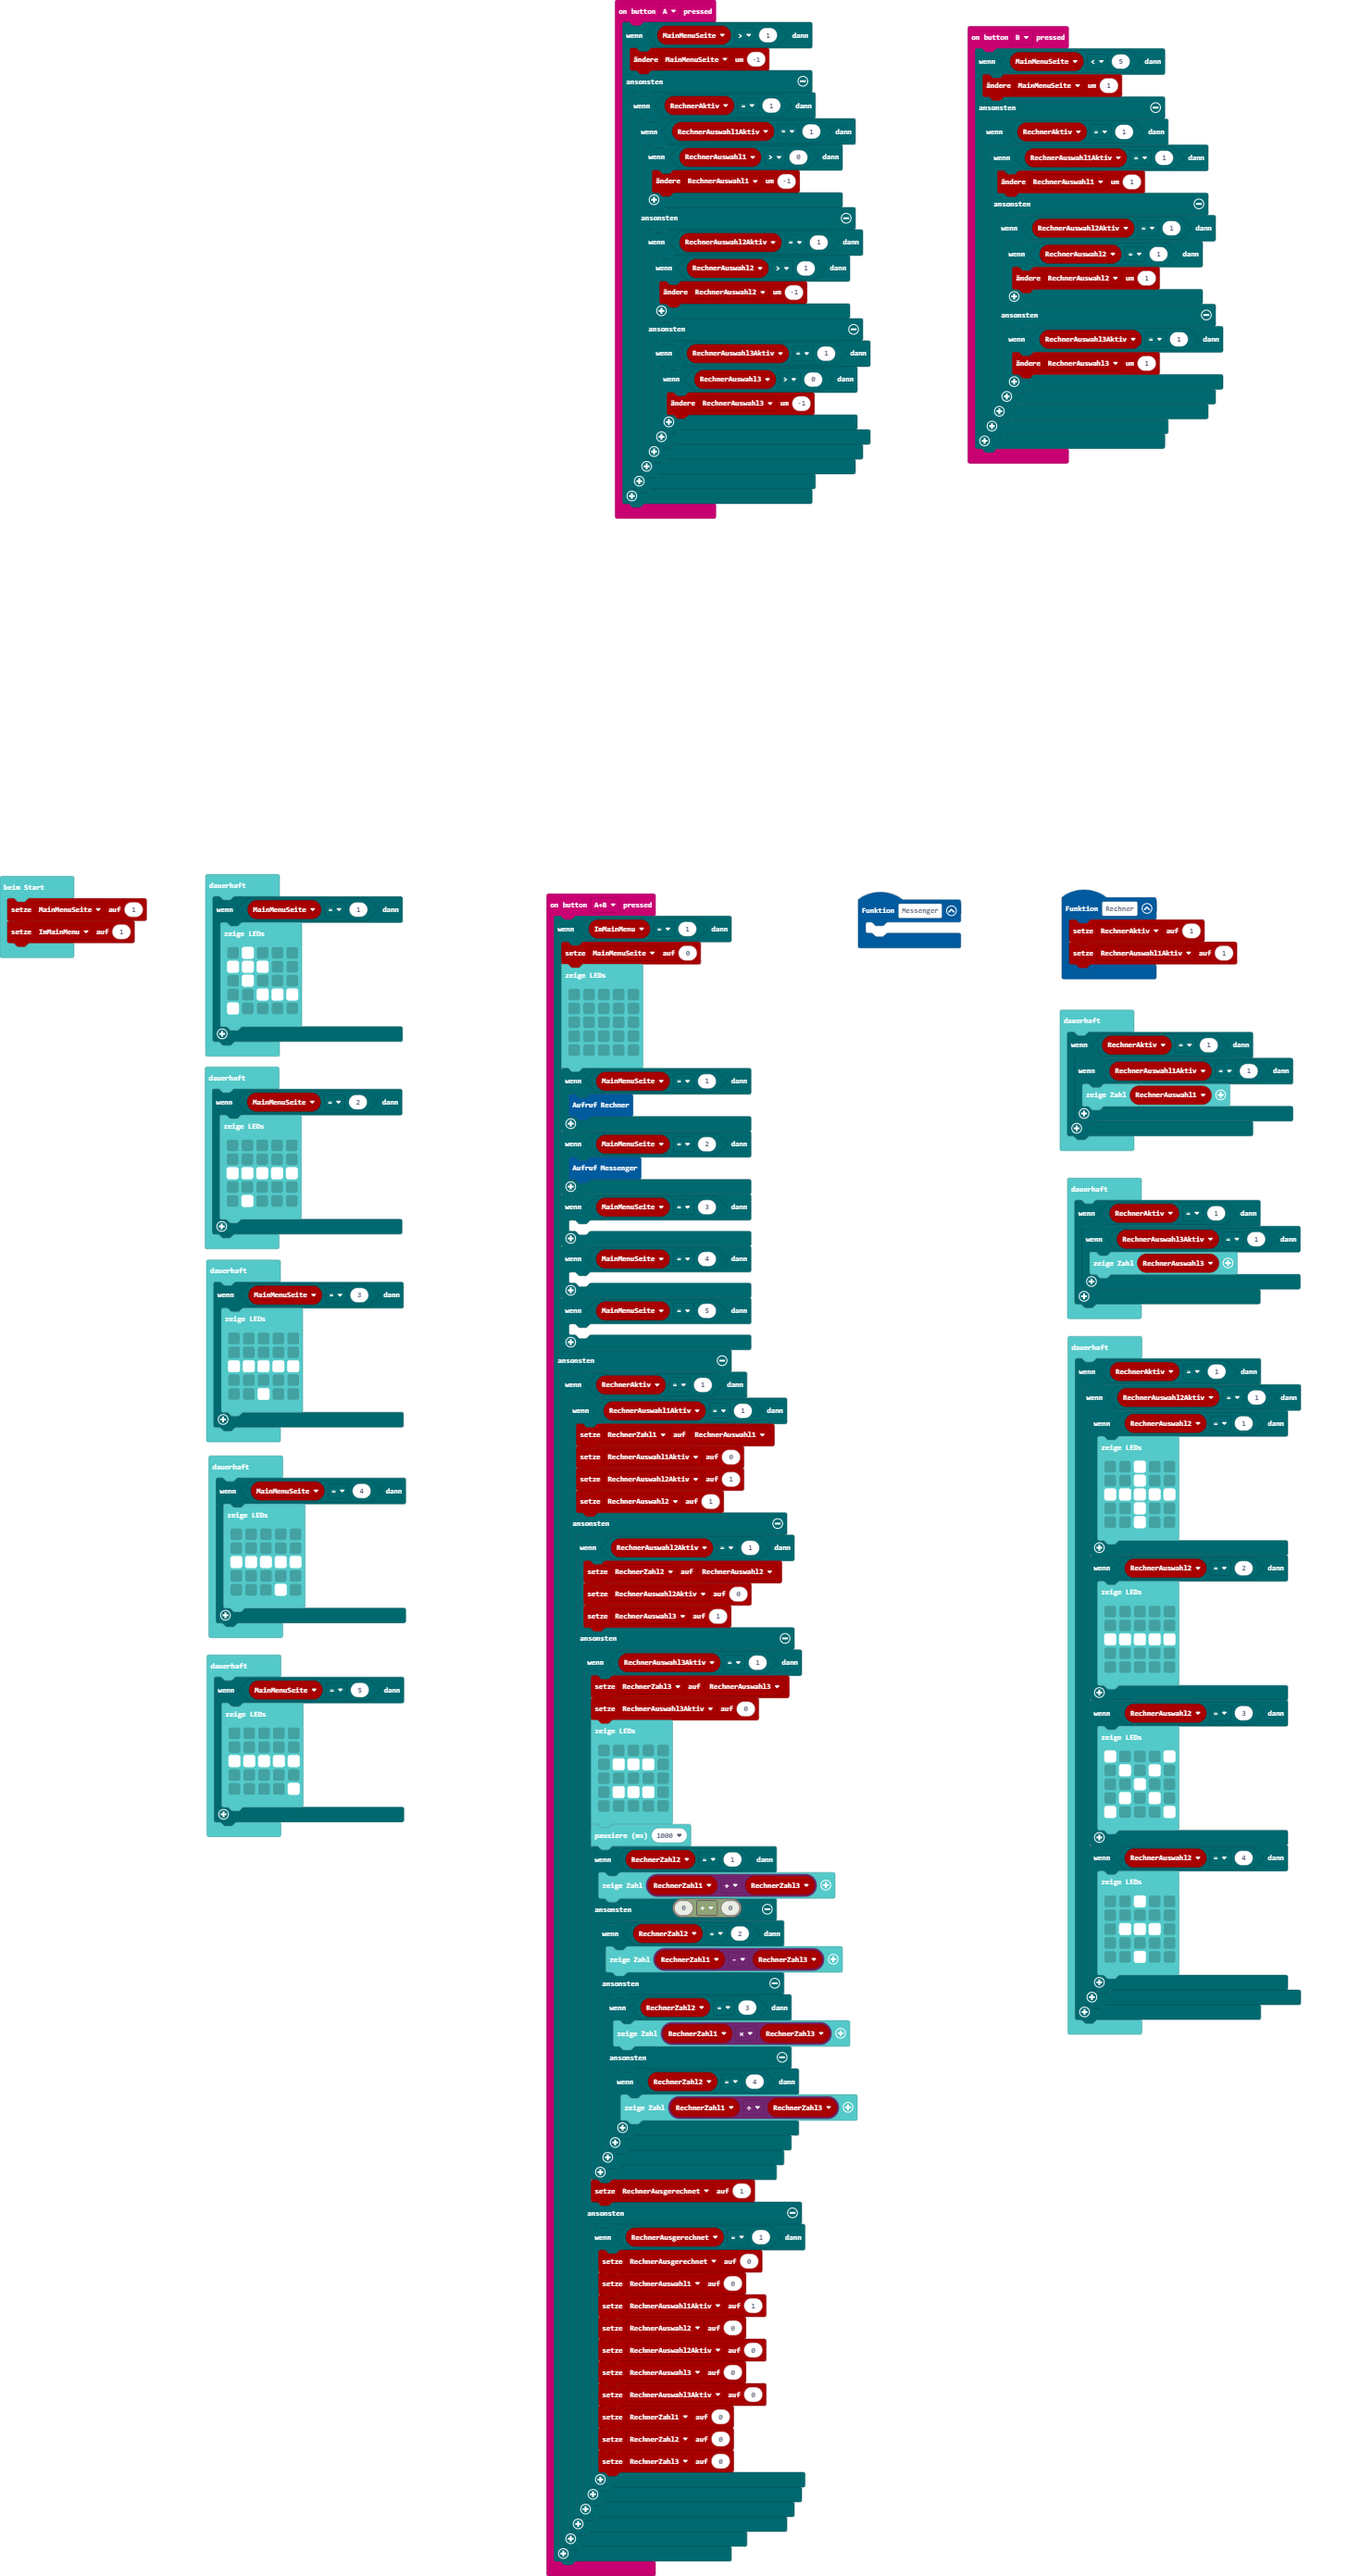
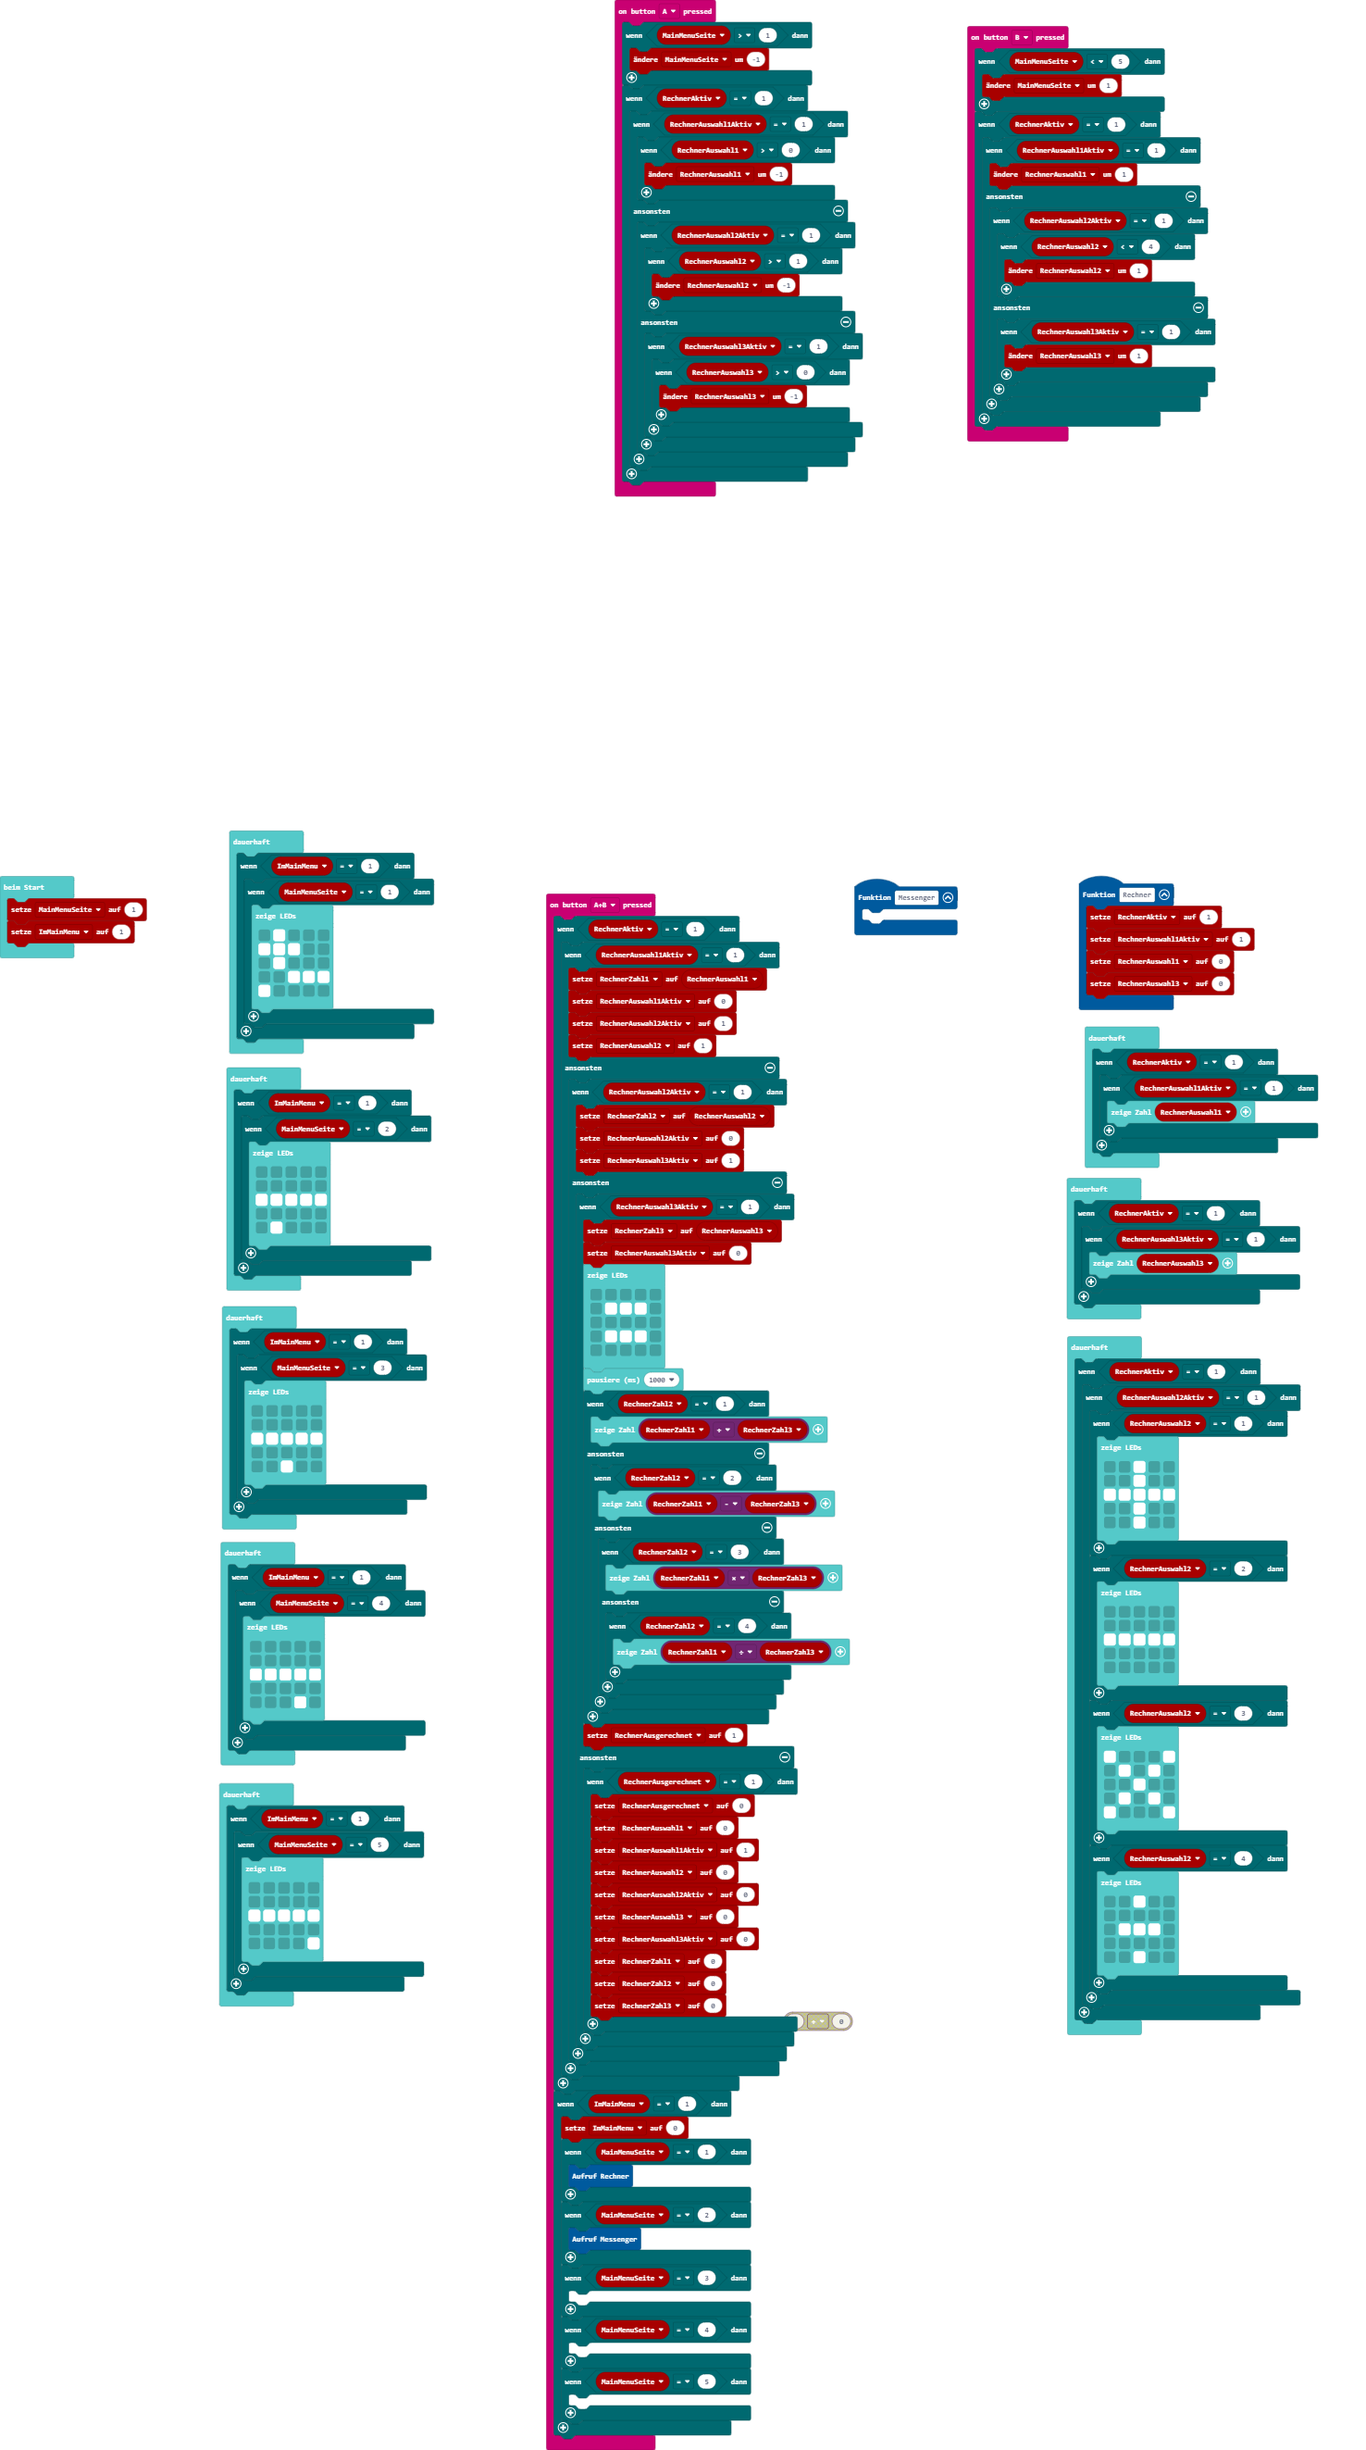
Aktualisiere main.blocks, main.ts

diff --git a/main.ts b/main.ts
@@ -1,22 +1,21 @@
 input.onButtonPressed(Button.A, function () {
     if (MainMenuSeite > 1) {
         MainMenuSeite += -1
-    } else {
-        if (RechnerAktiv == 1) {
-            if (RechnerAuswahl1Aktiv == 1) {
-                if (RechnerAuswahl1 > 0) {
-                    RechnerAuswahl1 += -1
+    }
+    if (RechnerAktiv == 1) {
+        if (RechnerAuswahl1Aktiv == 1) {
+            if (RechnerAuswahl1 > 0) {
+                RechnerAuswahl1 += -1
+            }
+        } else {
+            if (RechnerAuswahl2Aktiv == 1) {
+                if (RechnerAuswahl2 > 1) {
+                    RechnerAuswahl2 += -1
                 }
             } else {
-                if (RechnerAuswahl2Aktiv == 1) {
-                    if (RechnerAuswahl2 > 1) {
-                        RechnerAuswahl2 += -1
-                    }
-                } else {
-                    if (RechnerAuswahl3Aktiv == 1) {
-                        if (RechnerAuswahl3 > 0) {
-                            RechnerAuswahl3 += -1
-                        }
+                if (RechnerAuswahl3Aktiv == 1) {
+                    if (RechnerAuswahl3 > 0) {
+                        RechnerAuswahl3 += -1
                     }
                 }
             }
@@ -24,15 +23,64 @@ input.onButtonPressed(Button.A, function () {
     }
 })
 input.onButtonPressed(Button.AB, function () {
+    if (RechnerAktiv == 1) {
+        if (RechnerAuswahl1Aktiv == 1) {
+            RechnerZahl1 = RechnerAuswahl1
+            RechnerAuswahl1Aktiv = 0
+            RechnerAuswahl2Aktiv = 1
+            RechnerAuswahl2 = 1
+        } else {
+            if (RechnerAuswahl2Aktiv == 1) {
+                RechnerZahl2 = RechnerAuswahl2
+                RechnerAuswahl2Aktiv = 0
+                RechnerAuswahl3Aktiv = 1
+            } else {
+                if (RechnerAuswahl3Aktiv == 1) {
+                    RechnerZahl3 = RechnerAuswahl3
+                    RechnerAuswahl3Aktiv = 0
+                    basic.showLeds(`
+                        . . . . .
+                        . # # # .
+                        . . . . .
+                        . # # # .
+                        . . . . .
+                        `)
+                    basic.pause(1000)
+                    if (RechnerZahl2 == 1) {
+                        basic.showNumber(RechnerZahl1 + RechnerZahl3)
+                    } else {
+                        if (RechnerZahl2 == 2) {
+                            basic.showNumber(RechnerZahl1 - RechnerZahl3)
+                        } else {
+                            if (RechnerZahl2 == 3) {
+                                basic.showNumber(RechnerZahl1 * RechnerZahl3)
+                            } else {
+                                if (RechnerZahl2 == 4) {
+                                    basic.showNumber(RechnerZahl1 / RechnerZahl3)
+                                }
+                            }
+                        }
+                    }
+                    RechnerAusgerechnet = 1
+                } else {
+                    if (RechnerAusgerechnet == 1) {
+                        RechnerAusgerechnet = 0
+                        RechnerAuswahl1 = 0
+                        RechnerAuswahl1Aktiv = 1
+                        RechnerAuswahl2 = 0
+                        RechnerAuswahl2Aktiv = 0
+                        RechnerAuswahl3 = 0
+                        RechnerAuswahl3Aktiv = 0
+                        RechnerZahl1 = 0
+                        RechnerZahl2 = 0
+                        RechnerZahl3 = 0
+                    }
+                }
+            }
+        }
+    }
     if (ImMainMenu == 1) {
-        MainMenuSeite = 0
-        basic.showLeds(`
-            . . . . .
-            . . . . .
-            . . . . .
-            . . . . .
-            . . . . .
-            `)
+        ImMainMenu = 0
         if (MainMenuSeite == 1) {
             Rechner()
         }
@@ -48,81 +96,23 @@ input.onButtonPressed(Button.AB, function () {
         if (MainMenuSeite == 5) {
         	
         }
-    } else {
-        if (RechnerAktiv == 1) {
-            if (RechnerAuswahl1Aktiv == 1) {
-                RechnerZahl1 = RechnerAuswahl1
-                RechnerAuswahl1Aktiv = 0
-                RechnerAuswahl2Aktiv = 1
-                RechnerAuswahl2 = 1
-            } else {
-                if (RechnerAuswahl2Aktiv == 1) {
-                    RechnerZahl2 = RechnerAuswahl2
-                    RechnerAuswahl2Aktiv = 0
-                    RechnerAuswahl3 = 1
-                } else {
-                    if (RechnerAuswahl3Aktiv == 1) {
-                        RechnerZahl3 = RechnerAuswahl3
-                        RechnerAuswahl3Aktiv = 0
-                        basic.showLeds(`
-                            . . . . .
-                            . # # # .
-                            . . . . .
-                            . # # # .
-                            . . . . .
-                            `)
-                        basic.pause(1000)
-                        if (RechnerZahl2 == 1) {
-                            basic.showNumber(RechnerZahl1 + RechnerZahl3)
-                        } else {
-                            if (RechnerZahl2 == 2) {
-                                basic.showNumber(RechnerZahl1 - RechnerZahl3)
-                            } else {
-                                if (RechnerZahl2 == 3) {
-                                    basic.showNumber(RechnerZahl1 * RechnerZahl3)
-                                } else {
-                                    if (RechnerZahl2 == 4) {
-                                        basic.showNumber(RechnerZahl1 / RechnerZahl3)
-                                    }
-                                }
-                            }
-                        }
-                        RechnerAusgerechnet = 1
-                    } else {
-                        if (RechnerAusgerechnet == 1) {
-                            RechnerAusgerechnet = 0
-                            RechnerAuswahl1 = 0
-                            RechnerAuswahl1Aktiv = 1
-                            RechnerAuswahl2 = 0
-                            RechnerAuswahl2Aktiv = 0
-                            RechnerAuswahl3 = 0
-                            RechnerAuswahl3Aktiv = 0
-                            RechnerZahl1 = 0
-                            RechnerZahl2 = 0
-                            RechnerZahl3 = 0
-                        }
-                    }
-                }
-            }
-        }
     }
 })
 input.onButtonPressed(Button.B, function () {
     if (MainMenuSeite < 5) {
         MainMenuSeite += 1
-    } else {
-        if (RechnerAktiv == 1) {
-            if (RechnerAuswahl1Aktiv == 1) {
-                RechnerAuswahl1 += 1
+    }
+    if (RechnerAktiv == 1) {
+        if (RechnerAuswahl1Aktiv == 1) {
+            RechnerAuswahl1 += 1
+        } else {
+            if (RechnerAuswahl2Aktiv == 1) {
+                if (RechnerAuswahl2 < 4) {
+                    RechnerAuswahl2 += 1
+                }
             } else {
-                if (RechnerAuswahl2Aktiv == 1) {
-                    if (RechnerAuswahl2 == 1) {
-                        RechnerAuswahl2 += 1
-                    }
-                } else {
-                    if (RechnerAuswahl3Aktiv == 1) {
-                        RechnerAuswahl3 += 1
-                    }
+                if (RechnerAuswahl3Aktiv == 1) {
+                    RechnerAuswahl3 += 1
                 }
             }
         }
@@ -131,6 +121,8 @@ input.onButtonPressed(Button.B, function () {
 function Rechner () {
     RechnerAktiv = 1
     RechnerAuswahl1Aktiv = 1
+    RechnerAuswahl1 = 0
+    RechnerAuswahl3 = 0
 }
 function Messenger () {
 	
@@ -151,14 +143,29 @@ let MainMenuSeite = 0
 MainMenuSeite = 1
 ImMainMenu = 1
 basic.forever(function () {
-    if (MainMenuSeite == 1) {
-        basic.showLeds(`
-            . # . . .
-            # # # . .
-            . # . . .
-            . . # # #
-            # . . . .
-            `)
+    if (ImMainMenu == 1) {
+        if (MainMenuSeite == 1) {
+            basic.showLeds(`
+                . # . . .
+                # # # . .
+                . # . . .
+                . . # # #
+                # . . . .
+                `)
+        }
+    }
+})
+basic.forever(function () {
+    if (ImMainMenu == 1) {
+        if (MainMenuSeite == 2) {
+            basic.showLeds(`
+                . . . . .
+                . . . . .
+                # # # # #
+                . . . . .
+                . # . . .
+                `)
+        }
     }
 })
 basic.forever(function () {
@@ -169,17 +176,6 @@ basic.forever(function () {
     }
 })
 basic.forever(function () {
-    if (MainMenuSeite == 2) {
-        basic.showLeds(`
-            . . . . .
-            . . . . .
-            # # # # #
-            . . . . .
-            . # . . .
-            `)
-    }
-})
-basic.forever(function () {
     if (RechnerAktiv == 1) {
         if (RechnerAuswahl3Aktiv == 1) {
             basic.showNumber(RechnerAuswahl3)
@@ -187,14 +183,16 @@ basic.forever(function () {
     }
 })
 basic.forever(function () {
-    if (MainMenuSeite == 3) {
-        basic.showLeds(`
-            . . . . .
-            . . . . .
-            # # # # #
-            . . . . .
-            . . # . .
-            `)
+    if (ImMainMenu == 1) {
+        if (MainMenuSeite == 3) {
+            basic.showLeds(`
+                . . . . .
+                . . . . .
+                # # # # #
+                . . . . .
+                . . # . .
+                `)
+        }
     }
 })
 basic.forever(function () {
@@ -240,24 +238,28 @@ basic.forever(function () {
     }
 })
 basic.forever(function () {
-    if (MainMenuSeite == 4) {
-        basic.showLeds(`
-            . . . . .
-            . . . . .
-            # # # # #
-            . . . . .
-            . . . # .
-            `)
+    if (ImMainMenu == 1) {
+        if (MainMenuSeite == 4) {
+            basic.showLeds(`
+                . . . . .
+                . . . . .
+                # # # # #
+                . . . . .
+                . . . # .
+                `)
+        }
     }
 })
 basic.forever(function () {
-    if (MainMenuSeite == 5) {
-        basic.showLeds(`
-            . . . . .
-            . . . . .
-            # # # # #
-            . . . . .
-            . . . . #
-            `)
+    if (ImMainMenu == 1) {
+        if (MainMenuSeite == 5) {
+            basic.showLeds(`
+                . . . . .
+                . . . . .
+                # # # # #
+                . . . . .
+                . . . . #
+                `)
+        }
     }
 })
